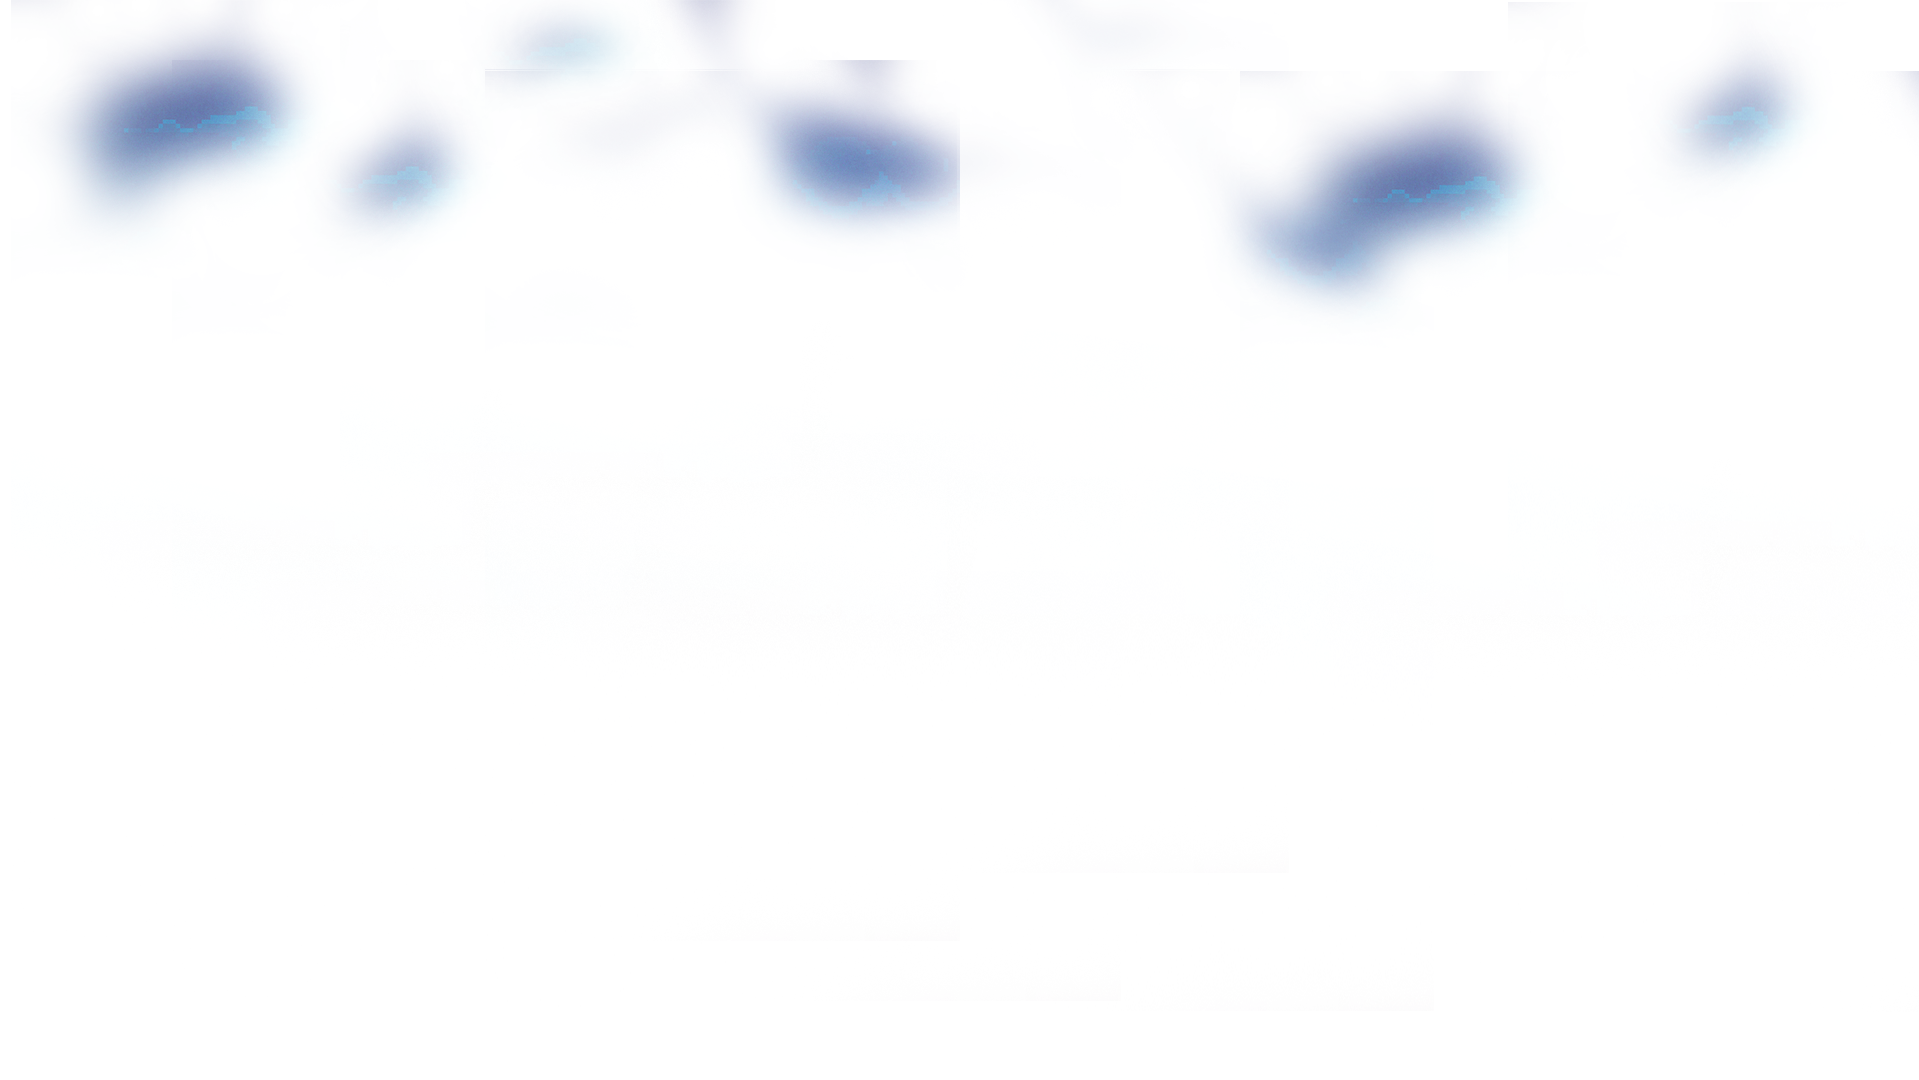
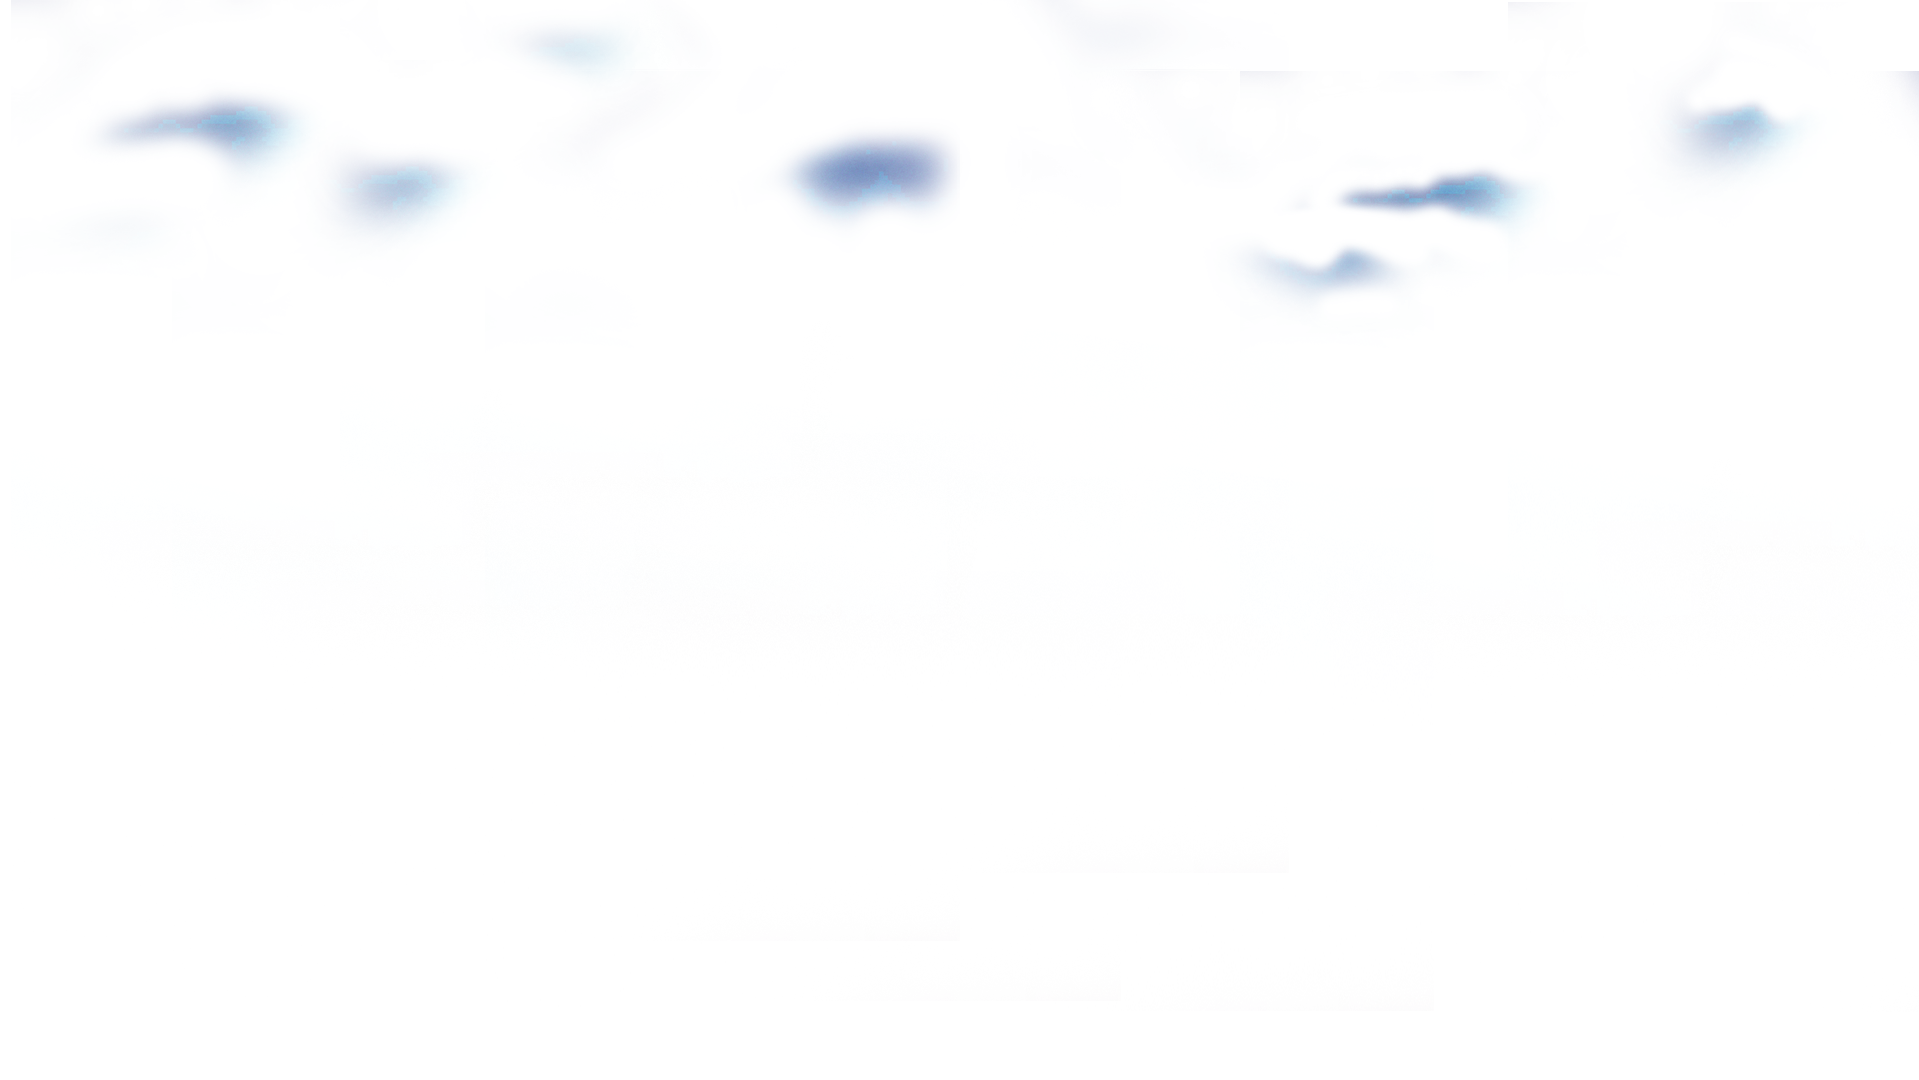
page vreel3

diff --git a/client/src/page/Vreel3.js b/client/src/page/Vreel3.js
@@ -1,5 +1,7 @@
 import React, { useEffect } from 'react';
 import { motion } from 'framer-motion';
+import "react-responsive-carousel/lib/styles/carousel.min.css"; // requires a loader
+import { Carousel } from 'react-responsive-carousel';
 
 const Vreel3 = () => {
     let leftNuage=0,
@@ -42,6 +44,45 @@ const Vreel3 = () => {
     return (
         <main id='vreel3'>
             <div className='background'></div>
+            <div className='panneau-back'></div>
+            <motion.div
+                className='panneau-content'
+                id='cover'
+                animate={{
+                    opacity:[1,1,0,0,1]
+                }}
+                transition={{
+                    duration:20,
+                    times:[0,0.4,0.5,0.9,1],
+                    repeat:Infinity
+                }}
+            ></motion.div>
+            <motion.div
+                className='panneau-content'
+                id='tracklist'
+                animate={{
+                    opacity:[0,0,1,1,0]
+                }}
+                transition={{
+                    times:[0,0.4,0.5,0.9,1],
+                    duration:20,
+                    repeat:Infinity
+                }}
+            ></motion.div>
+            <div className='panneau'></div>
+            <div className='panneau-light'></div>
+            <motion.div 
+                className='panneau-light' 
+                id='panneau-light2'
+                animate={{
+                    opacity:[0,1,1,0,1,0,1,0,1,0]
+                }}
+                transition={{
+                    duration:12,
+                    times:[0,0.01,0.93,0.94,0.95,0.96,0.97,0.98,0.99,1],
+                    repeat:Infinity
+                }}
+            ></motion.div>
             <div className='plateforme'></div>
             <div className='nuages'>
                 <div className='nuage'></div>

diff --git a/client/src/styles/vreel3.css b/client/src/styles/vreel3.css
@@ -4,7 +4,7 @@
     height: 100%;
     overflow: hidden;
 }
-.background, .plateforme, .police, .lights{
+.background,.panneau-light, .plateforme, .police, .lights, .panneau,.panneau-content, .panneau-back{
     position: absolute;
     top: 0;
     left: 0;
@@ -28,6 +28,24 @@
     background-image: url('../asset/img/vreel3/light1.png');
     transition: all 1s;
     opacity: 0;
+}
+.panneau{
+    background-image: url('../asset/img/vreel3/panneau.png');
+}
+#vreel3 #cover{
+    background-image: url('../asset/img/vreel3/cover.png');
+}
+.panneau-back{
+    background-image: url('../asset/img/vreel3/panneau-back.png');
+}
+#vreel3 #tracklist{
+    background-image: url('../asset/img/vreel3/tracklist.png');
+}
+.panneau-light{
+    background-image: url('../asset/img/vreel3/panneau-light1.png');
+}
+.panneau-light#panneau-light2{
+    background-image: url('../asset/img/vreel3/panneau-light2.png');
 }
 
 .nuages{
